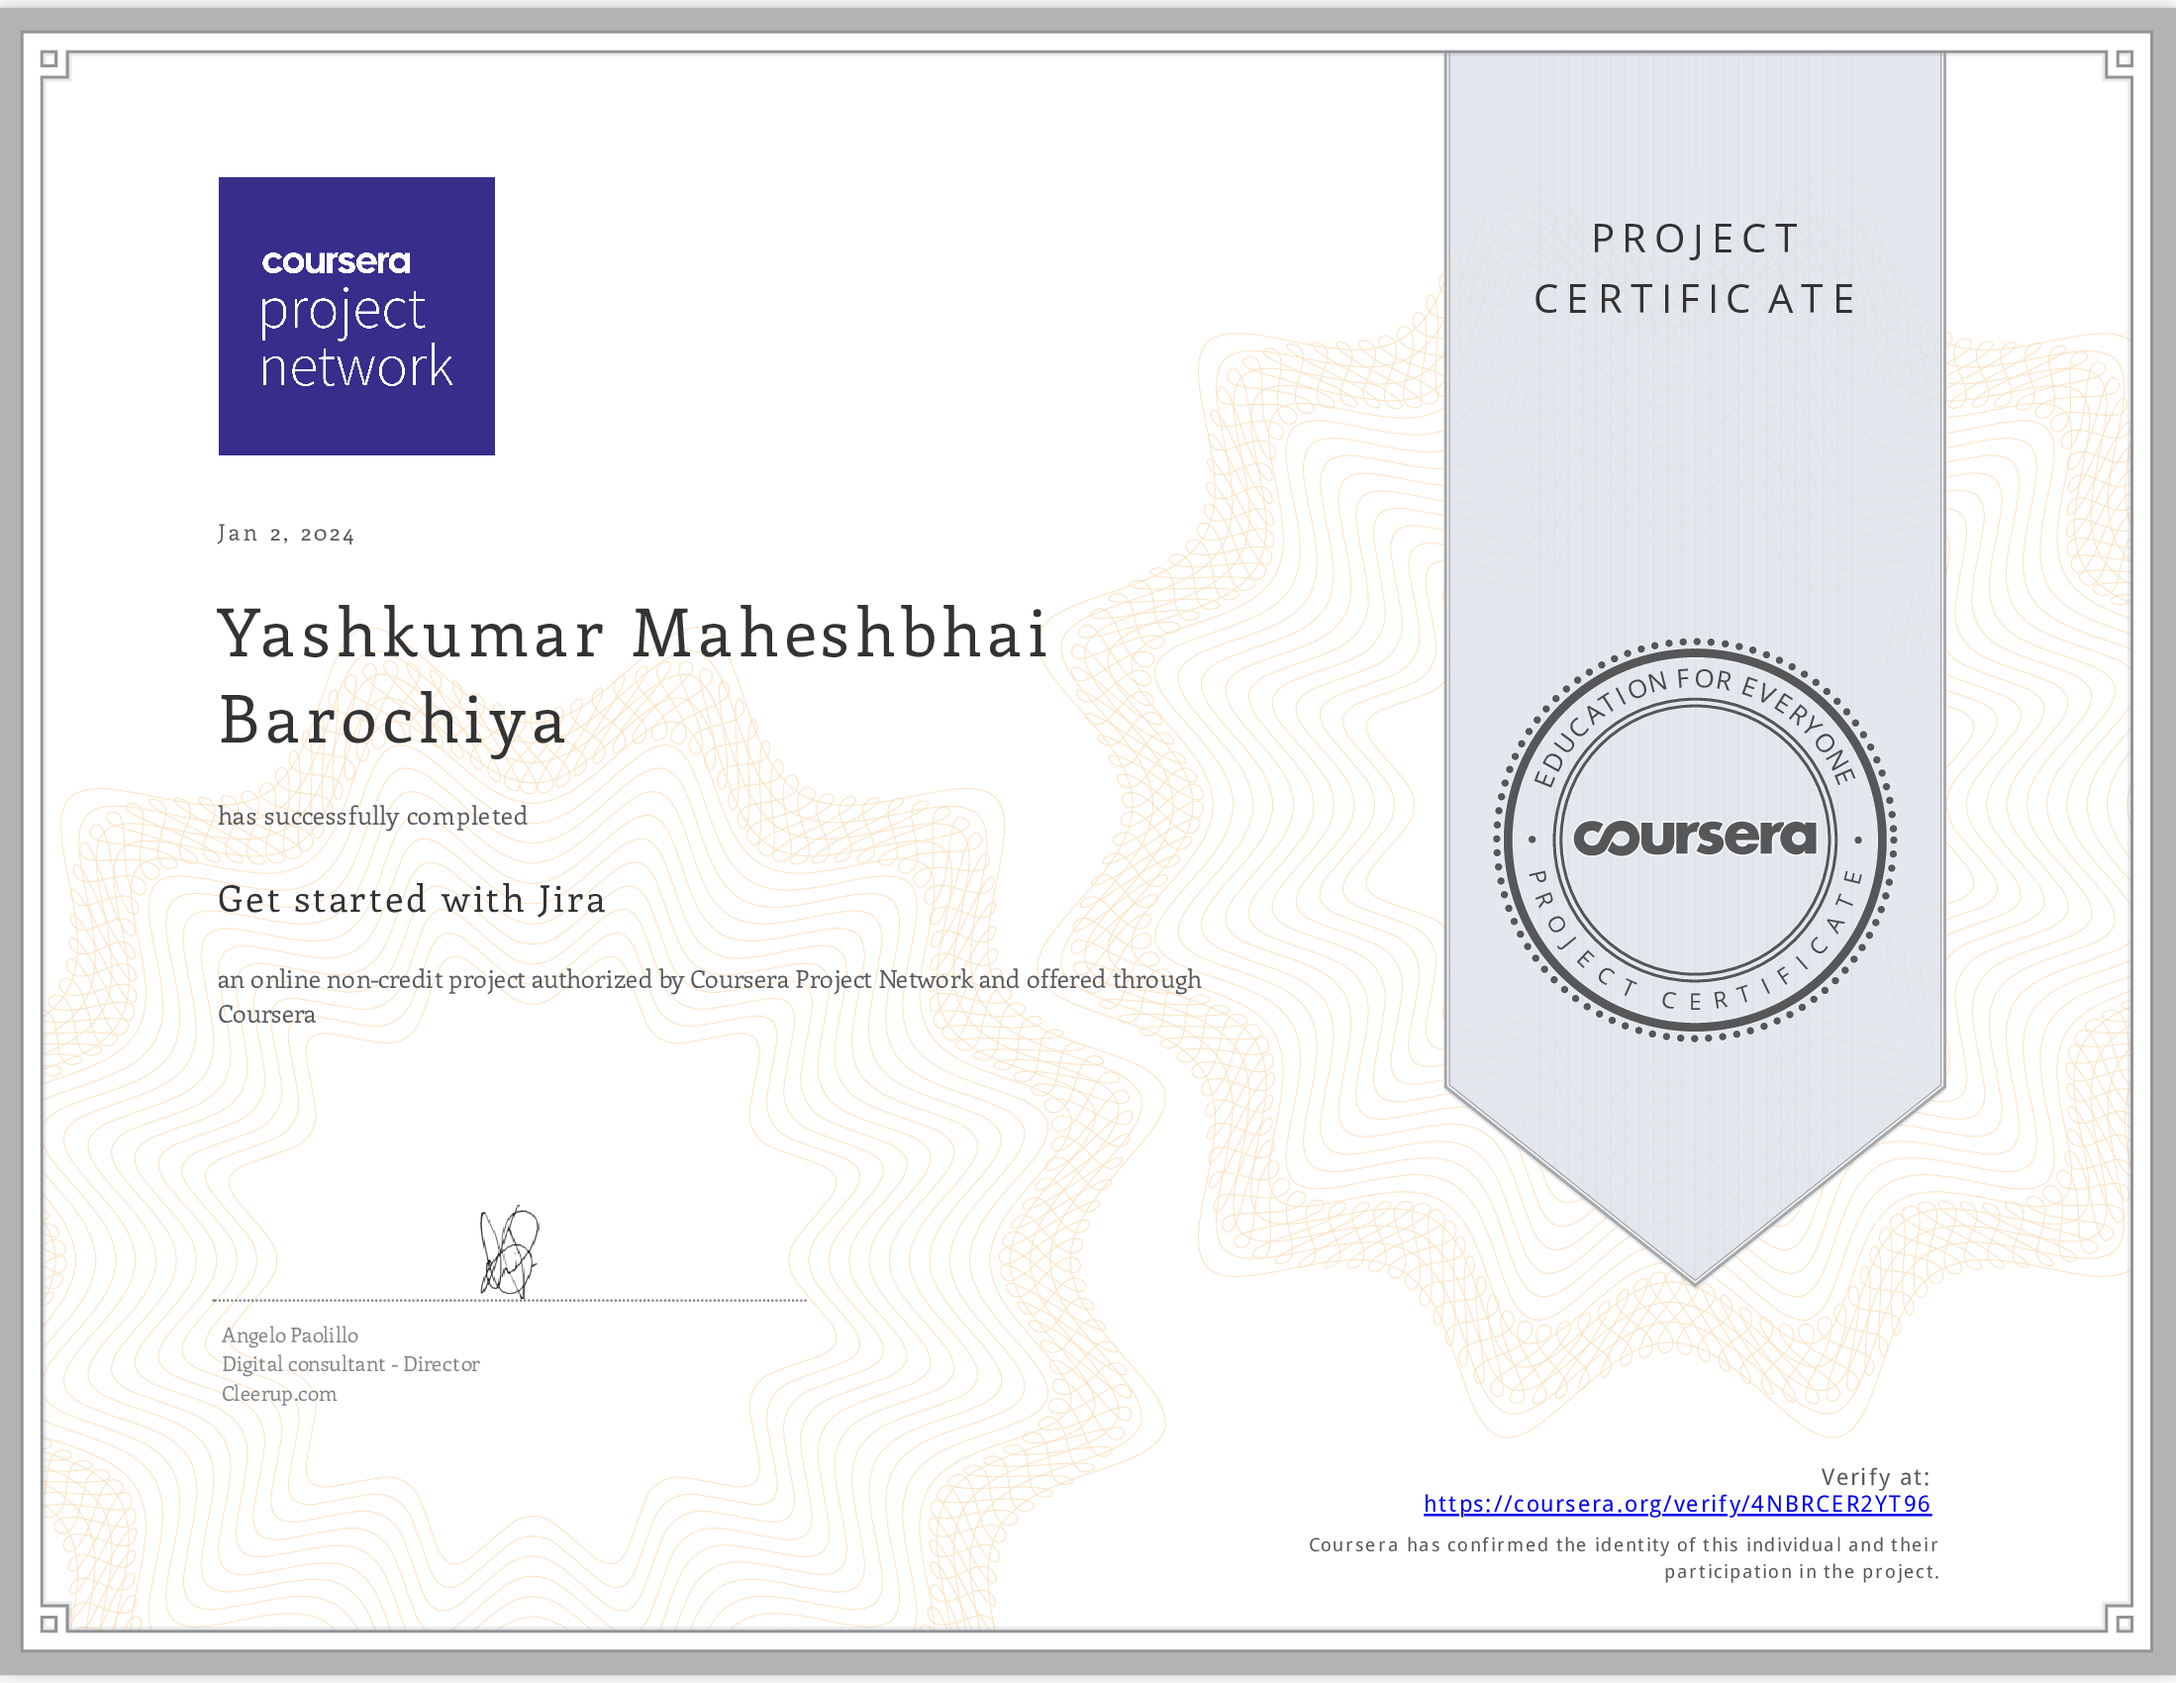
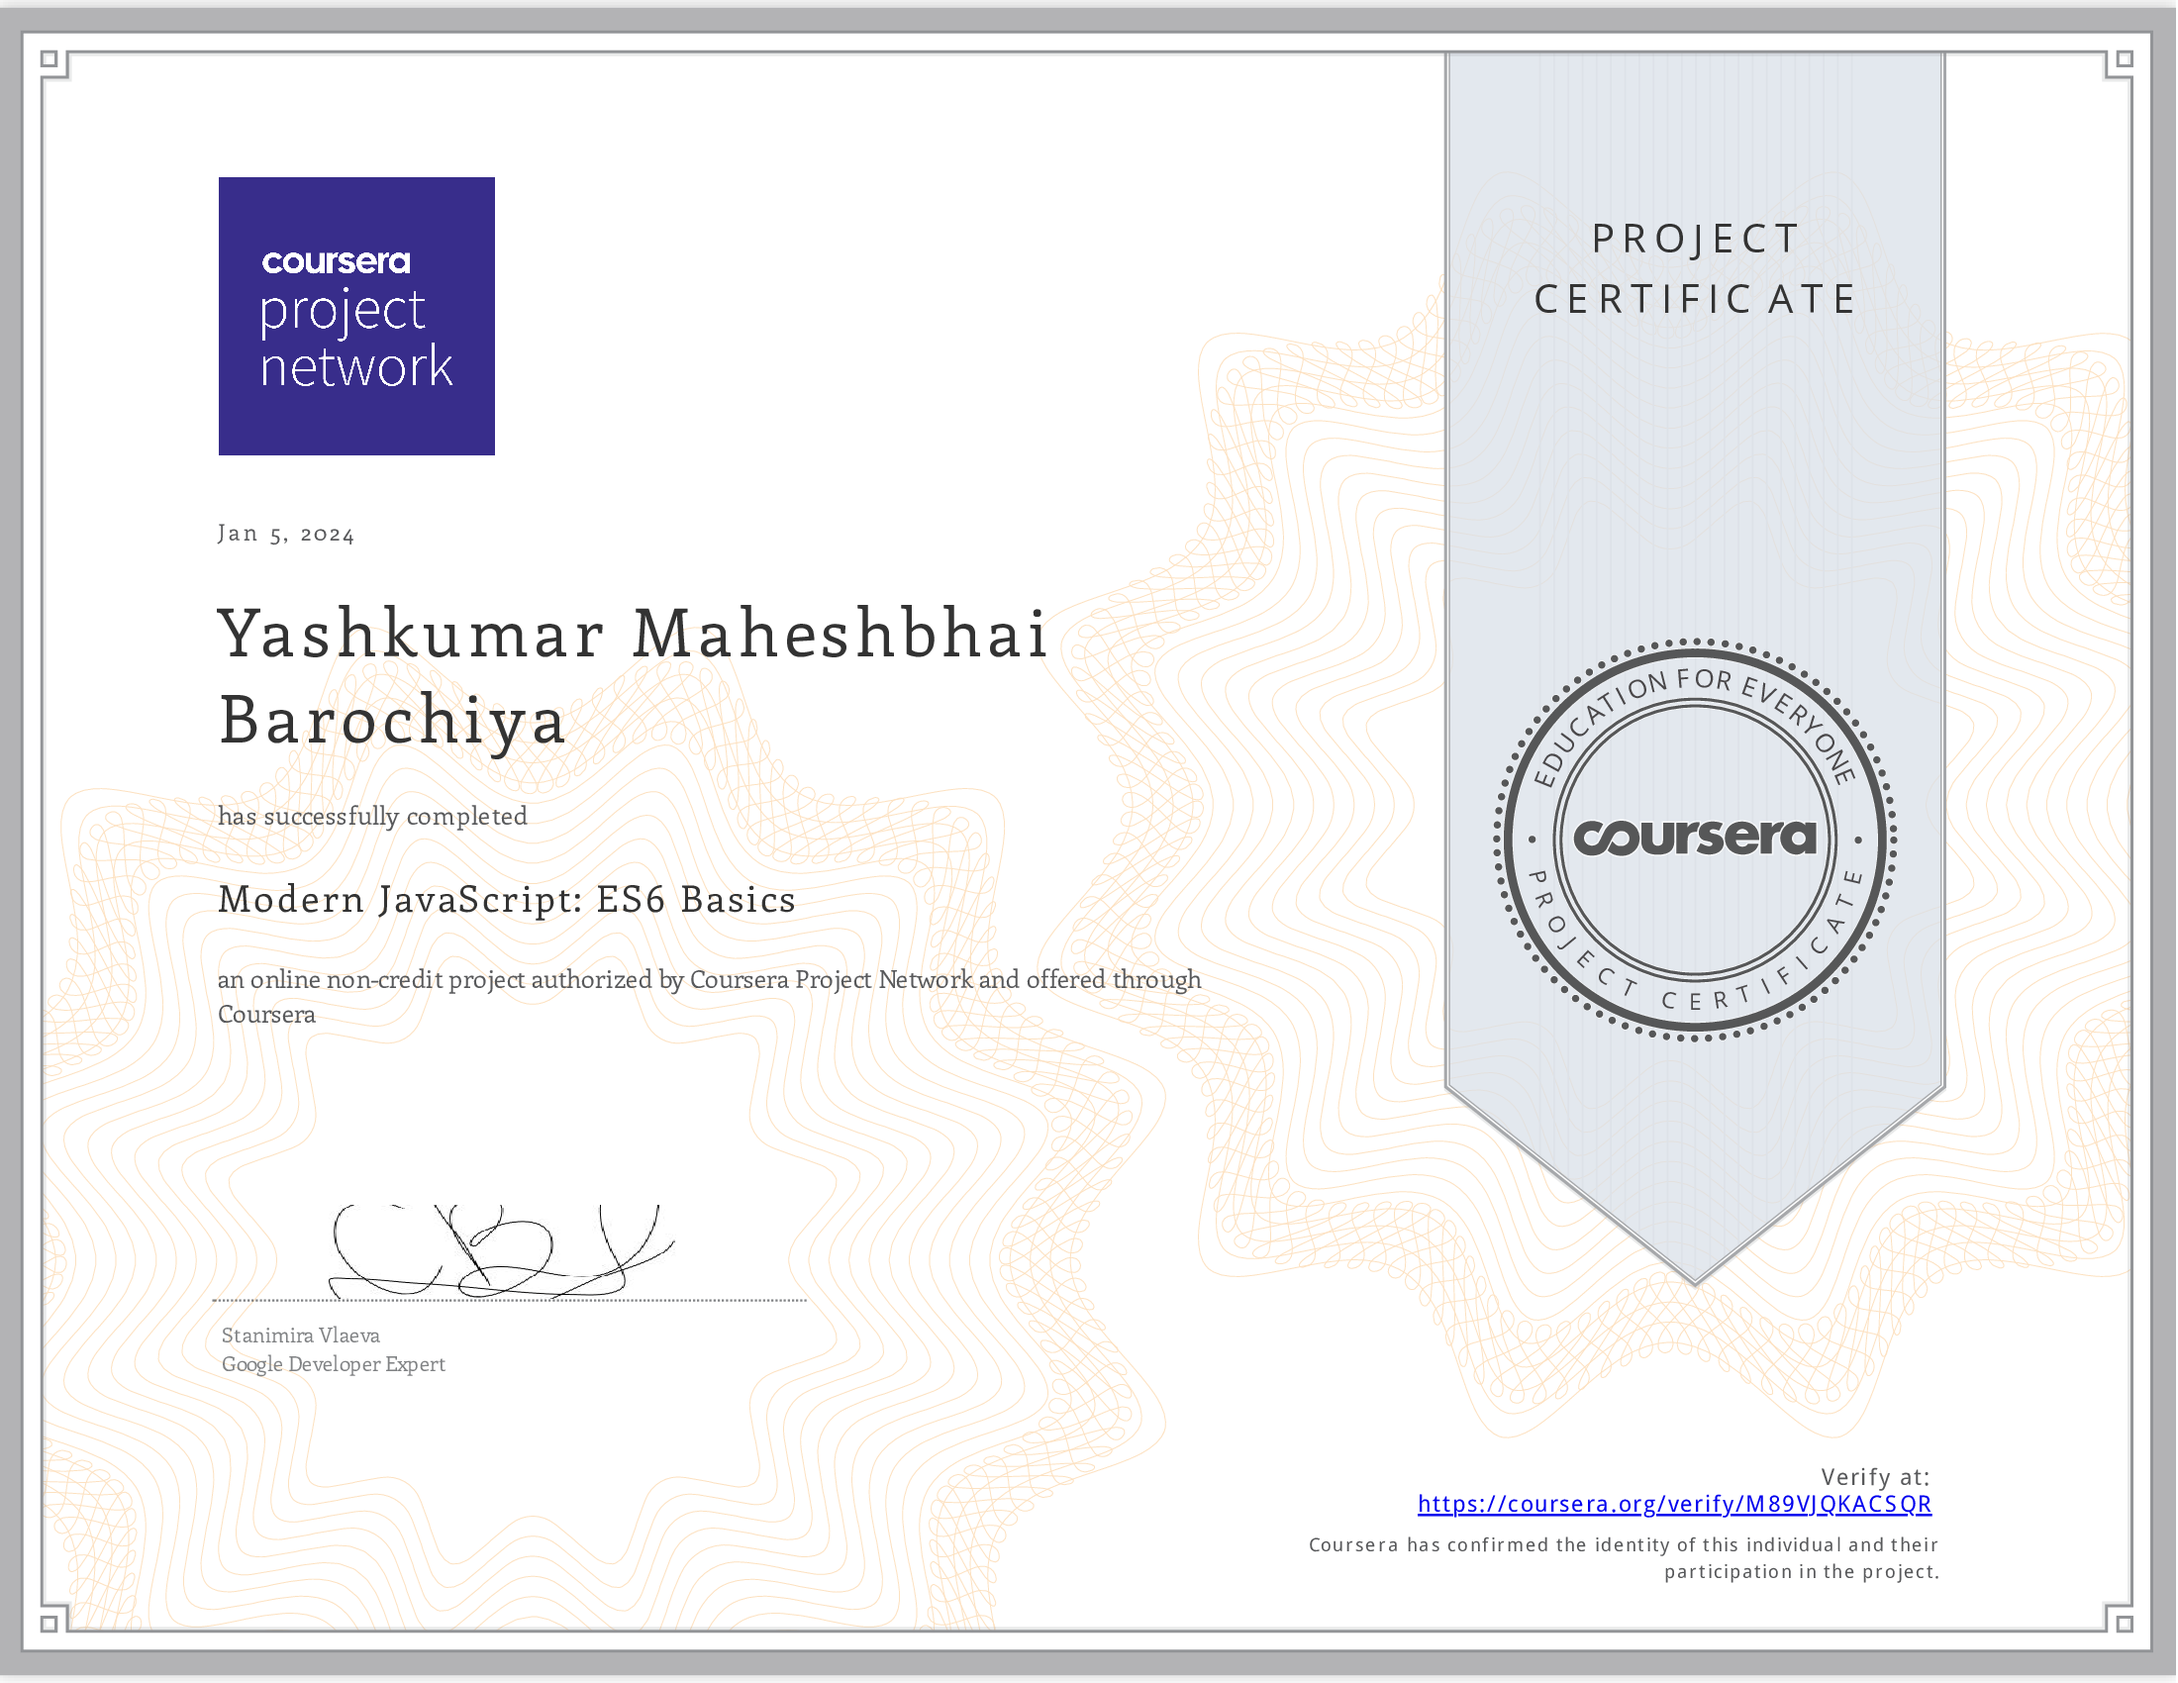
Certificates Upload
All Certificates Upload in website

diff --git a/certificates.html b/certificates.html
@@ -117,24 +117,248 @@
                 <div id="folio-wrap" class="bricks-wrapper">
 
                     <div class="brick folio-item">
-                        <div class="item-wrap animate-this" data-src="images/portfolio/gallery/11.png" data-sub-html="#01">
+                        <div class="item-wrap animate-this" data-src="images/portfolio/gallery/11.png"
+                            data-sub-html="#01">
                             <a href="#" class="overlay">
                                 <img src="images/portfolio/11.png" alt="Skaterboy">
                                 <div class="item-text">
+
+                                    <h3 class="folio-title">Preparing for Google Cloud Certification: Cloud DevOps
+                                        Engineer</h3>
+                                </div>
+                            </a>
+
+                        </div> <!-- end item-wrap -->
+
+                        <div id="01" class='hide'>
+                            <h4>Preparing for Google Cloud Certification: Cloud DevOps Engineer</h4>
+
+                        </div>
+                    </div> <!-- end folio-item -->
+
+
+
+                    <div class="brick folio-item">
+                        <div class="item-wrap animate-this" data-src="images/portfolio/gallery/21.png"
+                            data-sub-html="#01">
+                            <a href="#" class="overlay">
+                                <img src="images/portfolio/21.png" alt="Skaterboy">
+                                <div class="item-text">
+
+                                    <h3 class="folio-title">Foundations of User Experience (UX) Design</h3>
+                                </div>
+                            </a>
+
+                        </div> <!-- end item-wrap -->
+
+                        <div id="01" class='hide'>
+                            <h4>Foundations of User Experience (UX) Design</h4>
+
+                        </div>
+                    </div> <!-- end folio-item -->
+
+
+                    <div class="brick folio-item">
+                        <div class="item-wrap animate-this" data-src="images/portfolio/gallery/22.png" data-sub-html="#01">
+                            <a href="#" class="overlay">
+                                <img src="images/portfolio/22.png" alt="Skaterboy">
+                                <div class="item-text">
                     
-                                    <h3 class="folio-title">Preparing for Google Cloud Certification: Cloud DevOps Engineer</h3>
+                                    <h3 class="folio-title">Start the UX Design Process: Empathize, Define, and Ideate</h3>
                                 </div>
                             </a>
                     
                         </div> <!-- end item-wrap -->
                     
                         <div id="01" class='hide'>
-                            <h4>Preparing for Google Cloud Certification: Cloud DevOps Engineer</h4>
+                            <h4>Start the UX Design Process: Empathize, Define, and Ideate</h4>
                     
                         </div>
                     </div> <!-- end folio-item -->
 
+
+                    <div class="brick folio-item">
+                        <div class="item-wrap animate-this" data-src="images/portfolio/gallery/23.png" data-sub-html="#01">
+                            <a href="#" class="overlay">
+                                <img src="images/portfolio/23.png" alt="Skaterboy">
+                                <div class="item-text">
                     
+                                    <h3 class="folio-title">Build Wireframes and Low-Fidelity Prototypes</h3>
+                                </div>
+                            </a>
+                    
+                        </div> <!-- end item-wrap -->
+                    
+                        <div id="01" class='hide'>
+                            <h4>Build Wireframes and Low-Fidelity Prototypes</h4>
+                    
+                        </div>
+                    </div> <!-- end folio-item -->
+
+
+
+
+                    <div class="brick folio-item">
+                        <div class="item-wrap animate-this" data-src="images/portfolio/gallery/31.png" data-sub-html="#01">
+                            <a href="#" class="overlay">
+                                <img src="images/portfolio/31.png" alt="Skaterboy">
+                                <div class="item-text">
+                    
+                                    <h3 class="folio-title">Foundations of Cybersecurity</h3>
+                                </div>
+                            </a>
+                    
+                        </div> <!-- end item-wrap -->
+                    
+                        <div id="01" class='hide'>
+                            <h4>Foundations of Cybersecurity</h4>
+                    
+                        </div>
+                    </div> <!-- end folio-item -->
+
+
+
+                    <div class="brick folio-item">
+                        <div class="item-wrap animate-this" data-src="images/portfolio/gallery/41.png" data-sub-html="#01">
+                            <a href="#" class="overlay">
+                                <img src="images/portfolio/41.png" alt="Skaterboy">
+                                <div class="item-text">
+                    
+                                    <h3 class="folio-title">Solving Problems with Creative and Critical Thinking</h3>
+                                </div>
+                            </a>
+                    
+                        </div> <!-- end item-wrap -->
+                    
+                        <div id="01" class='hide'>
+                            <h4>Solving Problems with Creative and Critical Thinking</h4>
+                    
+                        </div>
+                    </div> <!-- end folio-item -->
+
+
+
+                    <div class="brick folio-item">
+                        <div class="item-wrap animate-this" data-src="images/portfolio/gallery/51.png" data-sub-html="#01">
+                            <a href="#" class="overlay">
+                                <img src="images/portfolio/51.png" alt="Skaterboy">
+                                <div class="item-text">
+                    
+                                    <h3 class="folio-title">Get started with Jira</h3>
+                                </div>
+                            </a>
+                    
+                        </div> <!-- end item-wrap -->
+                    
+                        <div id="01" class='hide'>
+                            <h4>Get started with Jira</h4>
+                    
+                        </div>
+                    </div> <!-- end folio-item -->
+
+
+                    <div class="brick folio-item">
+                        <div class="item-wrap animate-this" data-src="images/portfolio/gallery/52.png" data-sub-html="#01">
+                            <a href="#" class="overlay">
+                                <img src="images/portfolio/52.png" alt="Skaterboy">
+                                <div class="item-text">
+                    
+                                    <h3 class="folio-title">Modern JavaScript: ES6 Basics</h3>
+                                </div>
+                            </a>
+                    
+                        </div> <!-- end item-wrap -->
+                    
+                        <div id="01" class='hide'>
+                            <h4>Modern JavaScript: ES6 Basics</h4>
+                    
+                        </div>
+                    </div> <!-- end folio-item -->
+
+
+
+
+                    <div class="brick folio-item">
+                        <div class="item-wrap animate-this" data-src="images/portfolio/gallery/53.png" data-sub-html="#01">
+                            <a href="#" class="overlay">
+                                <img src="images/portfolio/53.png" alt="Skaterboy">
+                                <div class="item-text">
+                    
+                                    <h3 class="folio-title">Preparation for Job Interviews</h3>
+                                </div>
+                            </a>
+                    
+                        </div> <!-- end item-wrap -->
+                    
+                        <div id="01" class='hide'>
+                            <h4>Preparation for Job Interviews</h4>
+                    
+                        </div>
+                    </div> <!-- end folio-item -->
+
+
+
+
+                    <div class="brick folio-item">
+                        <div class="item-wrap animate-this" data-src="images/portfolio/gallery/54.png" data-sub-html="#01">
+                            <a href="#" class="overlay">
+                                <img src="images/portfolio/54.png" alt="Skaterboy">
+                                <div class="item-text">
+                    
+                                    <h3 class="folio-title">Fundamentals of Database Systems</h3>
+                                </div>
+                            </a>
+                    
+                        </div> <!-- end item-wrap -->
+                    
+                        <div id="01" class='hide'>
+                            <h4>Fundamentals of Database Systems</h4>
+                    
+                        </div>
+                    </div> <!-- end folio-item -->
+
+
+
+
+                    <div class="brick folio-item">
+                        <div class="item-wrap animate-this" data-src="images/portfolio/gallery/61.png" data-sub-html="#01">
+                            <a href="#" class="overlay">
+                                <img src="images/portfolio/61.png" alt="Skaterboy">
+                                <div class="item-text">
+                    
+                                    <h3 class="folio-title">Executive Diploma in Leadership and Management</h3>
+                                </div>
+                            </a>
+                    
+                        </div> <!-- end item-wrap -->
+                    
+                        <div id="01" class='hide'>
+                            <h4>Executive Diploma in Leadership and Management</h4>
+                    
+                        </div>
+                    </div> <!-- end folio-item -->
+
+
+
+
+                    <div class="brick folio-item">
+                        <div class="item-wrap animate-this" data-src="images/portfolio/gallery/62.png" data-sub-html="#01">
+                            <a href="#" class="overlay">
+                                <img src="images/portfolio/62.png" alt="Skaterboy">
+                                <div class="item-text">
+                    
+                                    <h3 class="folio-title">Executive Diploma in Leadership and Management</h3>
+                                </div>
+                            </a>
+                    
+                        </div> <!-- end item-wrap -->
+                    
+                        <div id="01" class='hide'>
+                            <h4>Executive Diploma in Leadership and Management</h4>
+                    
+                        </div>
+                    </div> <!-- end folio-item -->
+
 
 
 
